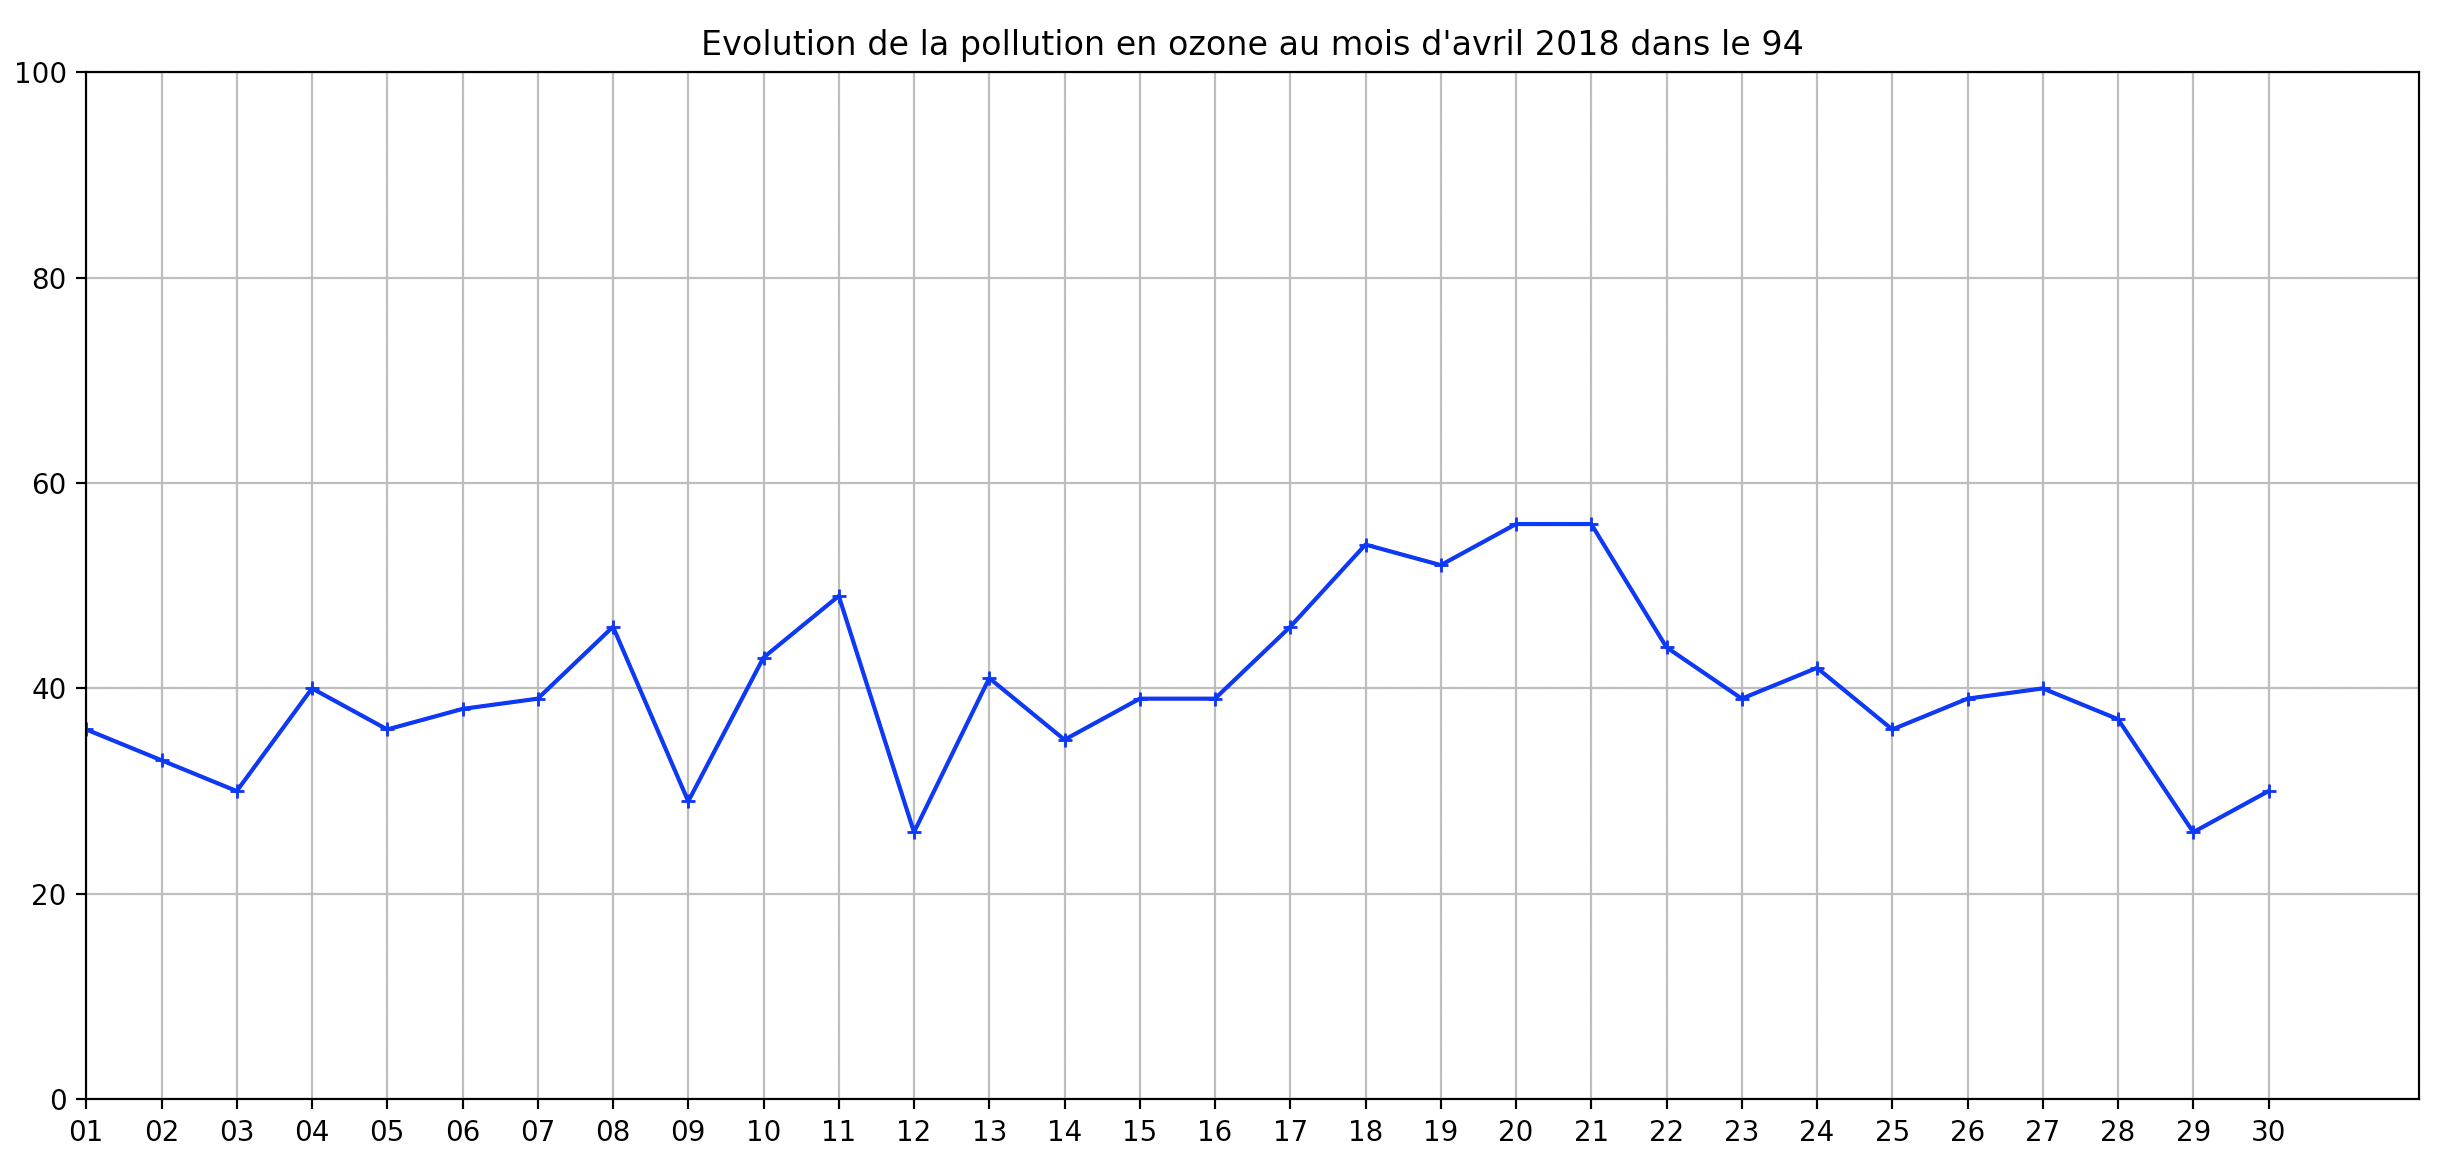
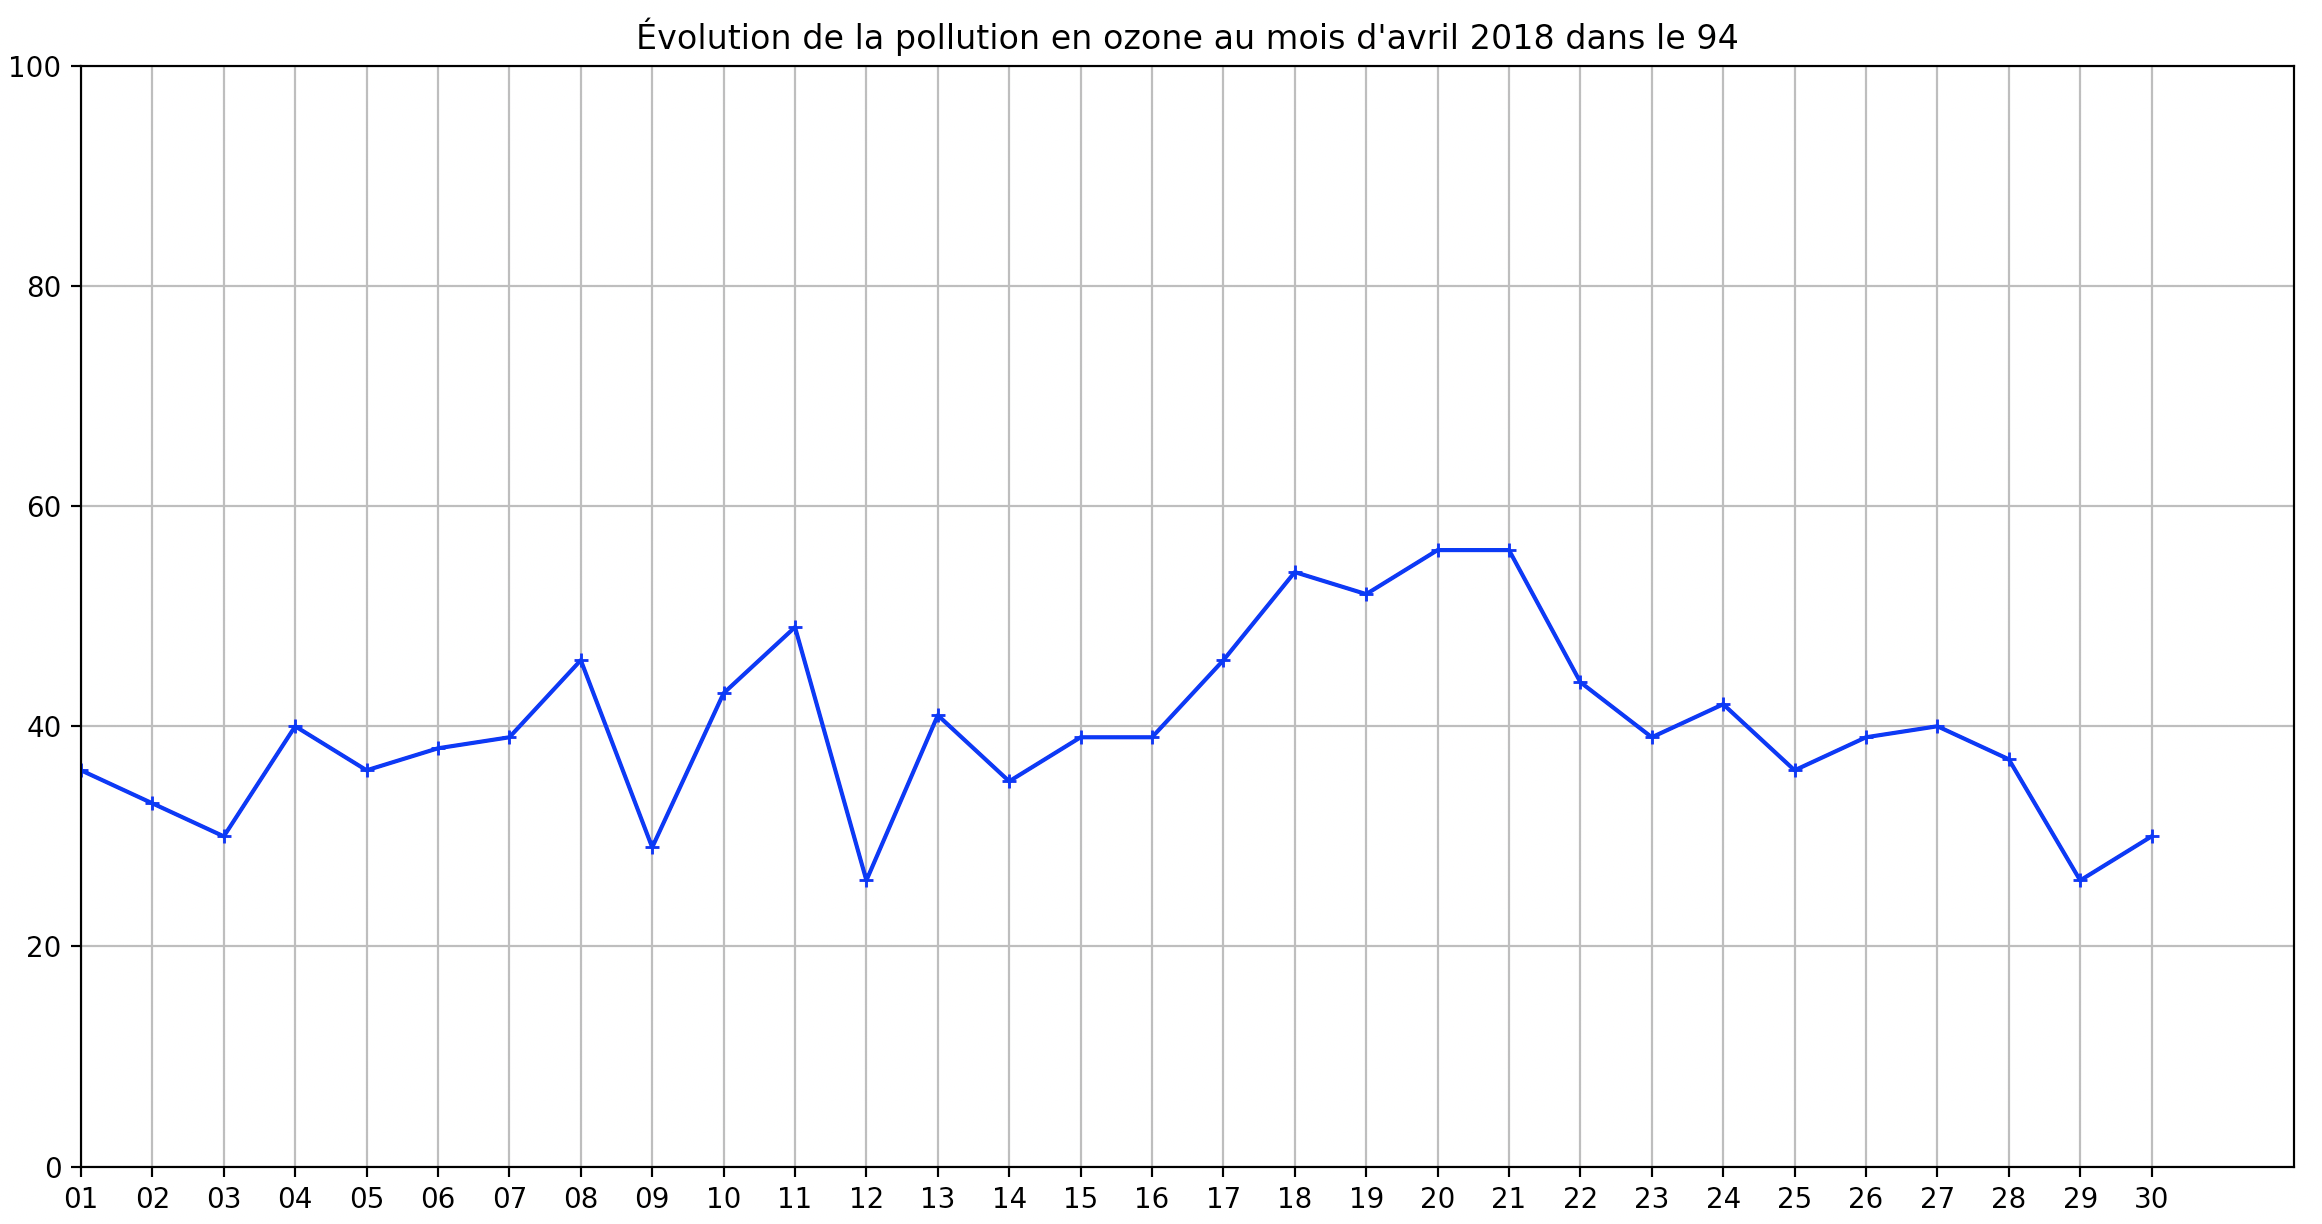
1.2.21

diff --git a/Thème 4_Les données structurées et leur traitement/Exercices_Les données structurées et leurs traitements.md b/Thème 4_Les données structurées et leur traitement/Exercices_Les données structurées et leurs traitements.md
@@ -55,7 +55,7 @@ plt.axis([ 1, 31, 0, 100 ])
 plt.plot(x,y,'+',markersize=5,linestyle='solid',color='blue')
 plt.xlabel("Date")
 plt.ylabel("Taux d'ozone")
-plt.title ("Evolution de la pollution en ozone au mois d'avril 2018 dans le 94")
+plt.title ("Évolution de la pollution en ozone au mois d'avril 2018 dans le 94")
 plt.grid()
 plt.show()
 plt.close()
